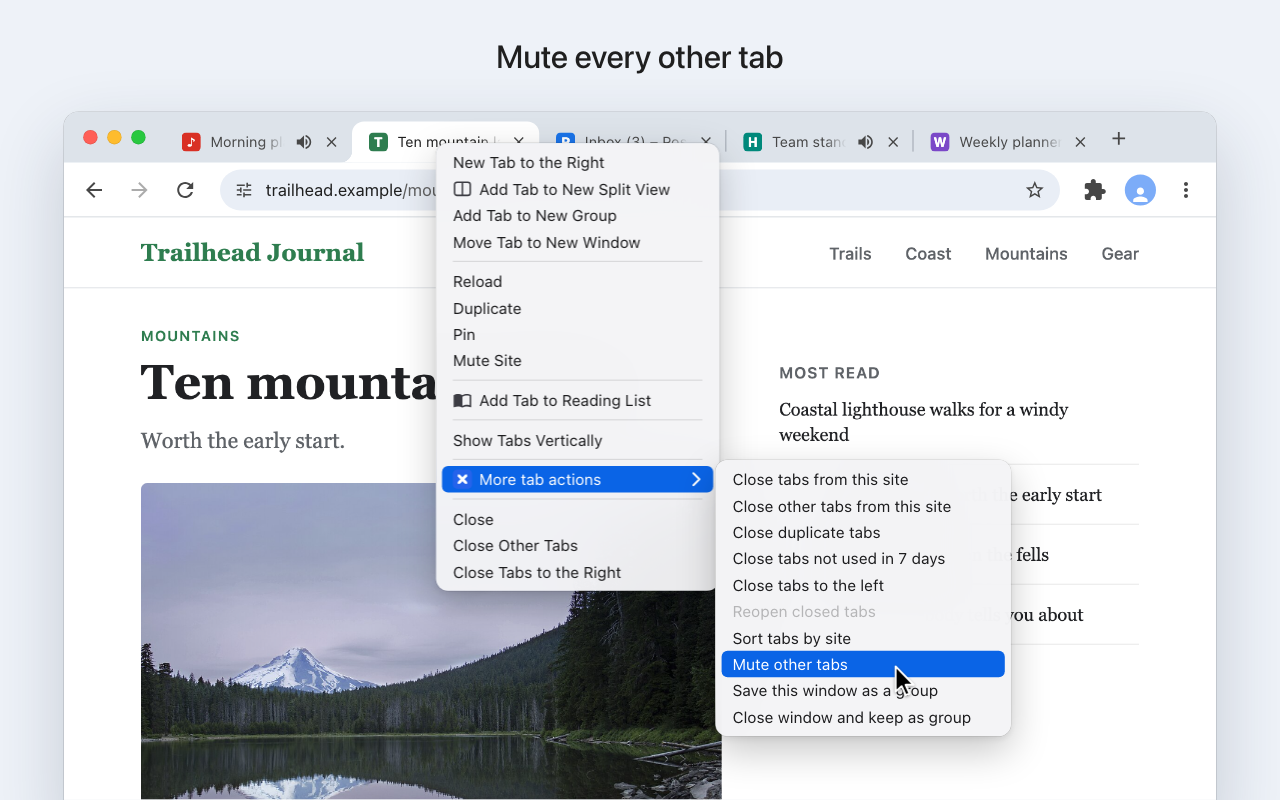
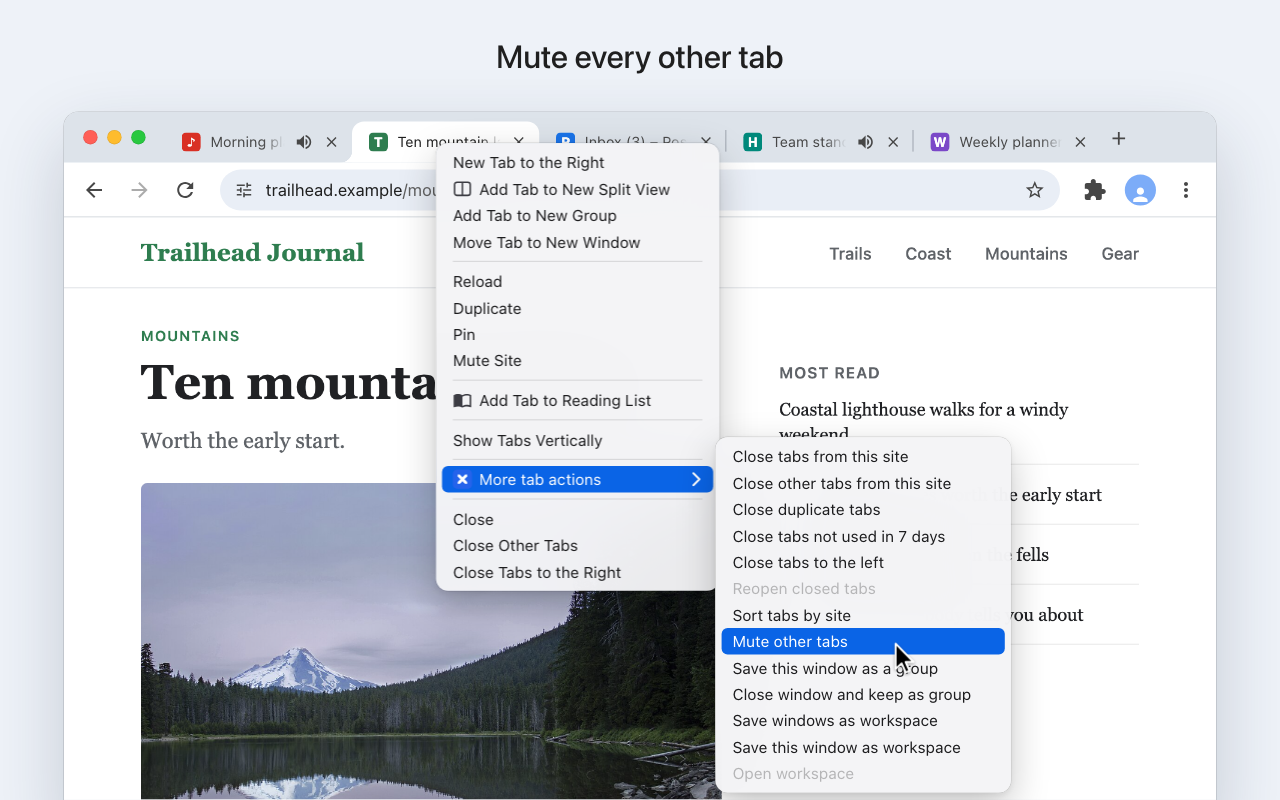
Document workspaces; add a store screenshot of them
README, PRIVACY (kept on this computer, never synced or sent), CHANGELOG,
the store listing (description, justifications, data disclosures, zip
contents) and CLAUDE.md, with what Chromium does: discarding too early
loses the URL, state set too early is dropped, and reopened groups are
saved again (hence "Reopen tab groups").

Screenshot 6 is the Workspaces card with three real workspaces. The
menu shots' submenu now moves up to stay on screen, as macOS does.

Changed region(s): [[0.5312, 0.5312, 0.8125, 1.0]]

diff --git a/CHROMEWEBSTORE.md b/CHROMEWEBSTORE.md
@@ -40,6 +40,12 @@ TAB GROUPS
 • Save this window as a group: puts the window’s tabs into one new tab group, named after its main site (or today’s date). Tabs already in groups stay in them, and pinned tabs stay pinned. Chrome keeps the group in your saved tab groups.
 • Close window and keep as group: the same, then closes the window. Reopen the group whenever you like from Chrome’s saved tab groups. Not offered while the window has pinned tabs, so nothing closes without a group to come back to.
 
+WORKSPACES
+• Save windows as workspace: keeps every window with its tabs in order, pinned tabs, tab groups (names, colours, collapsed) and size, named after its main sites. Or save just the window you’re in.
+• Open workspace: reopens one in new windows. Only each window’s front tab loads; the rest load when you click them, so a big workspace opens fast.
+• Manage them on the settings page: open, rename, replace with your current windows, or delete (with Undo).
+Workspaces stay on your computer. They’re never synced or sent anywhere.
+
 SAFE BY DEFAULT
 Pinned tabs are never closed. Choose whether tabs in groups can be closed, and whether site, duplicate and inactive tabs are closed in this window only or in all windows.
 
@@ -49,14 +55,14 @@ Hide the actions you don’t use. Each action can have a keyboard shortcut: Clos
 Switch to last used tab: press Alt+Shift+Z (Option+Shift+Z on Mac) to jump back to the tab you were just on, even in another window. Press it again to flip back. Chrome has no shortcut for this; Ctrl+Tab only moves along the tab strip.
 
 PRIVATE
-No account and no sign-in. More Tab Actions collects nothing and sends nothing. It looks at your open tabs only on your computer, when you choose an action. Your settings follow you to your other computers through your own Chrome Sync, like Chrome’s own settings, and never come to us.
+No account and no sign-in. More Tab Actions collects nothing and sends nothing. It looks at your open tabs only on your computer, when you choose an action. Workspaces are kept on this computer only. Your settings follow you to your other computers through your own Chrome Sync, like Chrome’s own settings, and never come to us.
 ```
 
 **Category** [REQUIRED]
 Make Chrome Yours › Functionality & UI (alternative: Productivity › Tools).
 
 **Single Purpose** [REQUIRED]
-Adds extra actions for tabs to Chrome’s tab right-click menu (closing tabs by site, duplicate or unused tabs, reopening them, sorting tabs by site, muting other tabs, and putting a window’s tabs into a tab group), with keyboard shortcuts for the same actions, plus a shortcut to switch back to the last used tab.
+Adds extra actions for tabs to Chrome’s tab right-click menu (closing tabs by site, duplicate or unused tabs, reopening them, sorting tabs by site, muting other tabs, putting a window’s tabs into a tab group, and saving windows as a workspace to reopen later), with keyboard shortcuts for the same actions, plus a shortcut to switch back to the last used tab.
 
 **Primary Language** [REQUIRED]
 English.
@@ -69,21 +75,22 @@ English.
 | Asset | Dimensions | Status | Filename |
 |-------|-----------|--------|----------|
 | Store Icon [REQUIRED] | 128×128 PNG | ✅ Ready | `extension/icons/icon-128.png` |
-| Screenshot 1 [REQUIRED] | 1280×800 | ✅ Ready | `store/screenshot-1.png`: “Close every tab from this site”, the tab menu with the submenu open (all ten items, the group ones included) |
+| Screenshot 1 [REQUIRED] | 1280×800 | ✅ Ready | `store/screenshot-1.png`: “Close every tab from this site”, the tab menu with the submenu open (all thirteen items, the group and workspace ones included; “Open workspace” greyed out as nothing is saved yet) |
 | Screenshot 2 | 1280×800 | ✅ Ready | `store/screenshot-2.png`: “Close duplicate tabs, keep one of each”, the tab strip before and after |
 | Screenshot 3 | 1280×800 | ✅ Ready | `store/screenshot-3.png`: “Mute every other tab”, the menu over tabs playing sound |
 | Screenshot 4 | 1280×800 | ✅ Ready | `store/screenshot-4.png`: “Choose what’s in the menu”, the settings page |
 | Screenshot 5 | 1280×800 | ✅ Ready | `store/screenshot-5.png`: “Pick the windows, the days and your shortcuts”, settings in dark mode: Closing tabs and Keyboard shortcuts |
+| Screenshot 6 | 1280×800 | ✅ Ready | `store/screenshot-6.png`: “Save your windows, reopen them later”, the Workspaces card with three real workspaces and a row’s ⋮ menu open |
 | Small Promo Tile [RECOMMENDED] | 440×280 | ✅ Ready | `store/promo-440x280.png`: icon, name, “More from your tab menu” |
 | Marquee Promo Tile [OPTIONAL] | 1400×560 | ⬜ Not made | Only used if the store features the extension |
 
-**How they were made.** `node store/tools/make-screenshots.mjs` regenerates all six. It loads
+**How they were made.** `node store/tools/make-screenshots.mjs` regenerates all seven. It loads
 `extension/` as an unpacked extension in Playwright's Chromium (Playwright 1.64.0 from the Tabby repo).
-- The settings pages (4, 5) are real captures, at 1.2 like the others (shot 2 at 1). The script stops if shot 5’s Keyboard shortcuts card no longer fits.
+- The settings pages (4, 5, 6) are real captures, at 1.2 like the others (shot 2 at 1). The script stops if shot 5’s Keyboard shortcuts card no longer fits. Shot 6’s workspaces are saved by the build’s own `snapshotWindows` and `workspaceName` from windows of the made-up sites (one renamed “Hiking trip”).
 - Screenshot 2's tab lists are real: the script opens the tabs, runs the build's own “Close duplicate tabs” (`extension/shared/actions.js` `runAction`, as `extension/background/background.js` does) and draws the strip from `chrome.tabs` before and after.
 - Chrome's tab right-click menu is native, so it can't be captured headlessly; shots 1 and 3 draw it.
   - Its items and order come from Chromium's `tab_menu_model.cc` at tag 157.0.8103.39. They use the macOS Title Case strings, for a signed-out profile with one window and no tab groups.
-  - The submenu's labels come from the build's `menuEntries()`.
+  - The submenu's labels come from the build's `menuEntries()`. It's moved up to stay on screen, as macOS does with a tall submenu.
   - The submenu has **no separator** because Chrome 157 drops separators in tab-menu submenus (`docs/bug-report/report.md`), so this is what users see today.
   - Re-check these two shots if Chrome changes the tab menu.
 - The web pages behind the menus are made up (no real sites). Photos are CC0, from Wikimedia Commons: “Bierstadt Lake Trail, Rocky Mountain National Park, 2009”, “Lake Mountain Landscape”, “Lighthouse Chania evening sun”.
@@ -97,10 +104,10 @@ English.
 | Permission | Justification |
 |---|---|
 | `contextMenus` | Adds the “More tab actions” submenu to the menu Chrome shows when the user right-clicks a tab. No install warning. |
-| `tabs` | The actions need each open tab’s address to find tabs from the same site and duplicate pages, to sort tabs by site and to name a new tab group after its main site, plus its last-used time for “Close tabs not used in N days”. Tabs are read on the device, only when the user picks an action or a shortcut, and nothing is sent anywhere. Install warning: “Read your browsing history”. |
-| `tabGroups` | “Save this window as a group” and “Close window and keep as group” name the tab group they make (`chrome.tabGroups.update`, title only; Chrome picks the colour). Making the group itself (`chrome.tabs.group`) needs no permission; naming it does. Nothing is read from existing groups or sent anywhere. Install warning: “View and manage your tab groups”. |
-| `storage` | `chrome.storage.sync` keeps the user’s settings (hidden actions, days, windows, grouped tabs), so Chrome Sync carries them to the user’s other computers through their own Google account, like Chrome’s own settings (signed out of Chrome, they stay on the computer). `chrome.storage.local` only holds a settings change Chrome Sync refused for the moment, until it’s retried, and whether Chrome was last seen in light or dark mode (`toolbarDark`, one true/false, this computer only, never synced), for the toolbar icon. `chrome.storage.session` remembers the addresses of the last batch of tabs an action closed, so “Reopen closed tabs” can bring them back. Chrome clears that when it quits. Nothing is sent to the developer. No install warning. |
-| `commands` (manifest key) | Keyboard shortcuts for the same actions, plus “Switch to last used tab”; two have defaults (Close tabs from this site, Alt+Shift+W; Switch to last used tab, Alt+Shift+Z). Users change them at chrome://extensions/shortcuts. The two group actions have commands with no default key. No install warning. |
+| `tabs` | The actions need each open tab’s address to find tabs from the same site and duplicate pages, to sort tabs by site and to name a new tab group after its main site, plus its last-used time for “Close tabs not used in N days”. “Save windows as workspace” reads the open tabs’ addresses, titles and pinned state to keep them on the device; “Open workspace” reopens them and discards the background ones (`chrome.tabs.discard`) so they load only when clicked. Tabs are read on the device, only when the user picks an action or a shortcut, and nothing is sent anywhere. Install warning: “Read your browsing history”. |
+| `tabGroups` | “Save this window as a group” and “Close window and keep as group” name the tab group they make (`chrome.tabGroups.update`, title only; Chrome picks the colour). Saving a workspace reads the open groups’ titles, colours and collapsed state (`chrome.tabGroups.query`), and opening one makes them again with the same title, colour and collapsed state. Making a group itself (`chrome.tabs.group`) needs no permission; reading and naming it do. Nothing is sent anywhere. Install warning: “View and manage your tab groups”. |
+| `storage` | `chrome.storage.sync` keeps the user’s settings (hidden actions, days, windows, grouped tabs), so Chrome Sync carries them to the user’s other computers through their own Google account, like Chrome’s own settings (signed out of Chrome, they stay on the computer). `chrome.storage.local` holds the user’s saved workspaces (`workspaces`: per window, tab addresses, titles, pinned state, tab groups and the window’s size and state; at most 40 of 500 tabs and 200 KB each; this computer only, never synced, deleted with the extension), a settings change Chrome Sync refused for the moment, until it’s retried, and whether Chrome was last seen in light or dark mode (`toolbarDark`, one true/false, this computer only, never synced), for the toolbar icon. `chrome.storage.session` remembers the addresses of the last batch of tabs an action closed, so “Reopen closed tabs” can bring them back. Chrome clears that when it quits. Nothing is sent to the developer. No install warning. |
+| `commands` (manifest key) | Keyboard shortcuts for the same actions, plus “Switch to last used tab”; two have defaults (Close tabs from this site, Alt+Shift+W; Switch to last used tab, Alt+Shift+Z). Users change them at chrome://extensions/shortcuts. The two group actions and the three workspace actions (save windows, save this window, open the last workspace) have commands with no default key. No install warning. |
 | `action` (manifest key, not a permission) | The toolbar button opens the settings page. Its icon is a plain glyph in Chrome’s own toolbar icon colours, light or dark to match Chrome. |
 | `offscreen` | Keeps one small hidden page (`offscreen/offscreen.html`, reason `MATCH_MEDIA`) that reads whether Chrome is in light or dark mode (`matchMedia('(prefers-color-scheme: dark)')`, which the service worker can’t call), so the toolbar icon matches Chrome’s own icons. It only reads that one true/false and tells the extension’s service worker when it changes; it loads nothing and sends nothing anywhere. No install warning. |
 
@@ -121,7 +128,7 @@ Settings sync through the user’s own Chrome Sync (their Google account), like 
 | Authentication information | No | |
 | Personal communications | No | |
 | Location | No | |
-| Web history | No | Open tabs’ addresses are read on the device to carry out an action; the last closed batch is kept in session storage on the device until Chrome quits. Never sent or kept beyond that. |
+| Web history | No | Open tabs’ addresses are read on the device to carry out an action; the last closed batch is kept in session storage on the device until Chrome quits; workspaces the user saves are kept in local storage on the device until the user deletes them. None of it is ever sent off the device, synced, or seen by the developer. |
 | User activity | No | |
 | Website content | No | Pages aren’t read at all. |
 
@@ -138,7 +145,7 @@ repo must be public first). The text is `PRIVACY.md`; the draft below is the sam
 >
 > **What it reads:** when you choose one of its actions or shortcuts, it looks at your open tabs’ addresses, titles and last-used times, in Chrome, so it can close, sort, mute, group or reopen the right tabs. Tab groups it makes are kept by Chrome itself, in your saved tab groups, like groups you make.
 >
-> **What it keeps:** your settings (which actions show, the number of days, the windows, grouped tabs), in Chrome’s own storage. If you’re signed in to Chrome with sync on, Chrome Sync keeps them in your Google account so your other computers get the same settings, as it does for Chrome’s own settings. It also keeps the addresses of the last tabs it closed, on this computer, so “Reopen closed tabs” can bring them back. That list is cleared when Chrome quits.
+> **What it keeps:** your settings (which actions show, the number of days, the windows, grouped tabs), in Chrome’s own storage. If you’re signed in to Chrome with sync on, Chrome Sync keeps them in your Google account so your other computers get the same settings, as it does for Chrome’s own settings. It also keeps the addresses of the last tabs it closed, on this computer, so “Reopen closed tabs” can bring them back; that list is cleared when Chrome quits. Workspaces you save (each window’s tab addresses and titles, pinned tabs, tab groups and size) are kept on this computer only, never synced or sent, until you delete them.
 >
 > **What it sends:** nothing. It makes no network requests, has no analytics or ads, and needs no account. Settings sync is Chrome’s own, through your Google account. Nobody, including ArrayPress, receives any of your data.
 >
@@ -148,7 +155,7 @@ repo must be public first). The text is `PRIVACY.md`; the draft below is the sam
 
 | Version | Date | Notes |
 |---|---|---|
-| 1.0.0 | 2026-11-09 | First build, not yet submitted. Includes “Save this window as a group” and “Close window and keep as group” (adds `tabGroups`, warning “View and manage your tab groups”). Settings always sync through Chrome Sync (the opt-in switch is gone; earlier test installs’ settings move over by themselves). About card at the end of the settings page. |
+| 1.0.0 | 2026-11-09 | First build, not yet submitted. Includes “Save this window as a group” and “Close window and keep as group” (adds `tabGroups`, warning “View and manage your tab groups”). Workspaces (save windows, reopen them; kept in local storage only; no new permission). Settings always sync through Chrome Sync (the opt-in switch is gone; earlier test installs’ settings move over by themselves). About card at the end of the settings page. |
 
 ## Submit checklist
 
@@ -160,7 +167,7 @@ repo must be public first). The text is `PRIVACY.md`; the draft below is the sam
 
 **Build:**
 - [ ] `npm run package` (tests, kit check, zip). The zip is exactly the contents of `extension/`, less the toolbar glyph's SVG sources (`test/package.test.js` checks this):
-      `unzip -l release/more-tab-actions.zip` should list 28 files: `manifest.json` at the root, then `background/` (4), `offscreen/` (2), `options/` (5), `shared/` (6) and `icons/` (10 PNGs); no `store/`, `test/`, `scripts/` or `docs/`.
+      `unzip -l release/more-tab-actions.zip` should list 39 files: `manifest.json` at the root, then `background/` (2), `offscreen/` (2), `options/` (6), `shared/` (6), `vendor/` (12, the kit's browser half) and `icons/` (10 PNGs); no `store/`, `test/`, `scripts/` or `docs/`.
 - [ ] **No placeholder links.** `extension/options/about-links.js` points at the GitHub repo (README, Issues, PRIVACY.md); `npm run package` warns loudly if any link is ever set back to example.com.
 - [ ] Load the `extension/` folder in a clean profile and right-click a tab: the submenu, a shortcut and the settings page all work.
 
@@ -168,7 +175,7 @@ repo must be public first). The text is `PRIVACY.md`; the draft below is the sam
 1. **Items › New item**: upload `release/more-tab-actions.zip`.
 2. **Store listing**: paste the detailed description and pick the category and language (English). Upload:
    - store icon `extension/icons/icon-128.png`;
-   - screenshots `store/screenshot-1.png` … `-5.png`, in that order (1 is the one people see first);
+   - screenshots `store/screenshot-1.png` … `-6.png`, in that order (1 is the one people see first);
    - small promo tile `store/promo-440x280.png`.
 
    Add the homepage and support URLs if you have them.

diff --git a/CLAUDE.md b/CLAUDE.md
@@ -5,18 +5,50 @@ an options page (`options/`). The extension is `extension/` (paths below are ins
 the repo around it holds the tests, scripts, store assets and docs. Settings (`shared/settings.js`: the schema
 for `@arraypress/extension-kit`'s settings store) always live in `chrome.storage.sync`, so they
 follow the user through their own Chrome Sync (plain preferences, not personal data; the developer
-receives nothing); `chrome.storage.local` only holds a write sync refused, until it's retried (by the options
+receives nothing); `chrome.storage.local` holds the saved workspaces (below) and a write sync refused, until it's retried (by the options
 page, and by the worker at start). The options page debounces its writes (sync allows 120 a minute).
 The About card's links are in `options/about-links.js` (`githubAboutLinks`; `npm run package`
 warns loudly if one is ever a placeholder). `npm test` (ESLint; `tsc`, a strict check of the JSDoc types;
 node --test; and `extension-kit duplication`, which fails on copied code not listed in `.jscpd-allowlist.json`), `npm run package` (tests, zip, link reminders),
-`npm run e2e` (Playwright checks in real Chromium, `test/e2e/`: the group actions, the options page and the toolbar glyph; not part of `npm test`).
+`npm run e2e` (Playwright checks in real Chromium, `test/e2e/`: the group actions, workspaces, the options page and the toolbar glyph; not part of `npm test`).
 `test/package.test.js` checks the zip is exactly `extension/` (less the SVG sources) and that every path the extension names resolves inside it.
 
 Toolbar glyph: `action.default_icon` is a light/dark glyph (`icons/toolbar/`, `npm run toolbar-icons`). The kit does the work: `startToolbarTheme(chrome)` in the worker, `watchColorScheme(chrome)` on the options page, `watchSchemeOffscreen` in `offscreen/` (kept open with reason MATCH_MEDIA, polling as offscreen pages get no `change` events), key `toolbarDark` in local, never synced; `test/e2e/toolbar.mjs` runs the kit's `checkToolbarTheme`.
 
 `extension/vendor/extension-kit/` is `@arraypress/extension-kit`'s browser half, copied from `node_modules` by
 `npm install` (`postinstall`) and never committed (gitignored), so it can't drift from `package.json`. Never edit it.
+
+## Workspaces
+`shared/workspaces.js` (snapshot, name, reopen plan, storage, open/save/replace), wired into `shared/actions.js`
+(actions `save-workspace`, `save-window-workspace`, `open-workspace`: a submenu of the latest 10 plus
+"Manage workspaces", or the latest one from its shortcut), and `options/workspaces-section.js` (the card, ⋮ menu
+via `options/action-menu.js`, rename dialog, toasts with Undo). Stored under `workspaces` in `chrome.storage.local`
+only (it's browsing history: never sync), bounded to 40 workspaces × 500 tabs × 200 KB, URLs ≤ 8,192 characters,
+titles ≤ 200. There's no save confirmation beyond what the extension already does for its actions: the menu
+updates (the new workspace heads "Open workspace", as "Reopen 3 closed tabs" appears after closing), like Chrome's
+own "Bookmark all tabs" shows nothing after saving.
+
+What real Chromium does (checked with Playwright's Chromium 156, `test/e2e/workspaces.mjs`):
+- **Opening tabs.** `chrome.tabs.create` refuses `javascript:`, `devtools:`, `chrome-untrusted:` and
+  chrome://kill|crash|hang|quit|restart, and `file:` without file access. `view-source:`, `data:`, `about:`,
+  extension pages and other chrome:// pages open fine, so they're kept (`reopenable()`); `blob:` and
+  `chrome-error:` are skipped as there'd be nothing to show.
+- **Unloaded tabs.** `chrome.tabs.discard` straight after `tabs.create` **loses the URL** (the tab stays blank
+  for good). Waiting until the new tab reports its `url` (its navigation has started; ~20 ms) and then
+  discarding keeps the URL, sends **no request**, and the tab loads when activated in a visible window.
+  Discarding gives the tab a **new id**. So: each window opens with its active tab only, the rest are created,
+  discarded that way, then grouped by their new ids.
+- **Window state.** A state set right after tabs are added to a new window is dropped (reads back "normal" a
+  moment later, headed too), so `setWindowState` sets it again until it holds. Bounds and a non-normal state
+  can't be given together, so windows open normal at their bounds and change state last.
+- **Saved tab groups.** Every group an extension makes is saved by Chrome and pinned to the saved groups bar
+  (the profile's `Sync Data/LevelDB`, read by `test/e2e/saved-groups.mjs`). Closing its window or the browser
+  keeps it; ungrouping or `tabs.remove` of its tabs deletes it. Nothing dedupes by title, and no API can find
+  or reuse a closed saved group, so **each reopen of a workspace adds another saved copy of its groups**.
+  Chosen: the synced setting **"Reopen tab groups"** (on by default, secondary text "Chrome also adds each group
+  it reopens to your saved tab groups"): on keeps the workspace faithful, off reopens the tabs ungrouped and
+  adds nothing. Reusing an open group with the same title was rejected: it would pull tabs into another window's
+  group, and does nothing for the closed copies that pile up.
 
 ## Design
 - The options page copies chrome://settings. Its look comes from `chrome-ui.css` in `@arraypress/extension-kit`
@@ -37,5 +69,6 @@ quotes and apostrophes, "…" only when something asks for more input.
 - GitHub: `arraypress/more-tab-actions` (public). The About links (`extension/options/about-links.js`) point into it, so it must stay public.
 - `npm install` first: devDependencies (Playwright, the kit) and the kit's copy in `extension/vendor/`.
 - **Load the `extension/` folder** (chrome://extensions → Load unpacked). `npm run package` writes the store zip to `release/more-tab-actions.zip`: exactly `extension/`, less `icons/**/*.svg`, `*.d.ts` and `.DS_Store` (`scripts/package.mjs`). `docs/bug-report/` is the Chrome separator-bug write-up.
+- `test/e2e/helpers.mjs` holds what the e2e scripts share (made-up `*.example` sites with request counts, opening a window, running an action as a menu click does).
 - Where a file goes: `background/` runs only in the service worker, `offscreen/` and `options/` are those pages, `shared/` is what more than one of them loads (`actions.js` and what it imports are loaded by the worker and the options page), and `vendor/` is the kit's copy.
 - `store/`: Chrome Web Store screenshots and promo tile (listing text in `CHROMEWEBSTORE.md`). Not packaged. Regenerate with `node store/tools/make-screenshots.mjs`.

diff --git a/README.md b/README.md
@@ -1,8 +1,9 @@
 # More Tab Actions
 
 More actions in Chrome’s tab right-click menu: close every tab from a site, close duplicates or
-tabs you haven’t used in a week, reopen what you just closed, sort and mute tabs, and turn a whole
-window into a saved tab group. Plus a shortcut to flip back to the last tab you used.
+tabs you haven’t used in a week, reopen what you just closed, sort and mute tabs, turn a whole
+window into a saved tab group, and save your windows as a workspace to reopen later. Plus a
+shortcut to flip back to the last tab you used.
 
 ![The tab menu with More tab actions open](store/screenshot-1.png)
 
@@ -22,9 +23,19 @@ Right-click any tab → **More tab actions**:
 | Mute other tabs / Unmute tabs | Silences every tab except the one you clicked |
 | Save this window as a group | Puts the window’s loose tabs into one tab group, named after its main site; Chrome saves and syncs it |
 | Close window and keep as group | The same, then closes the window, to park a project for later |
+| Save windows as workspace | Saves every window (not incognito, popup or app windows) with its tabs, pinned tabs, tab groups and size, named after its main sites |
+| Save this window as workspace | The same, for the window you clicked in |
+| Open workspace › | Reopens a saved workspace in new windows; only each window’s active tab loads, the rest load when you click them. Ends with “Manage workspaces” |
 
 Pinned tabs are never closed. Grouped tabs can be left alone (a setting). Actions can work on the
 clicked tab’s window or on every window.
+
+**Workspaces** are listed on the settings page, newest first, where each one’s ⋮ menu opens,
+renames, replaces (with the windows open now) or deletes it. Up to 40 are kept, each up to 500
+tabs; pages that can’t be reopened (such as `chrome://crash`, `javascript:` or `file://` pages
+without file access) are left out and counted. **Reopen tab groups** (on by default) brings the
+groups back; Chrome then adds each reopened group to its saved tab groups, as it does for every
+group, so turn it off if copies pile up there.
 
 **Keyboard shortcuts:** every action can have one (set them at `chrome://extensions/shortcuts`).
 Two come set:
@@ -32,6 +43,9 @@ Two come set:
 - **Alt+Shift+Z** (⌥⇧Z): switch to the last tab you used, even in another window. Press again to
   flip back. Chrome has no shortcut for this; Ctrl+Tab only moves along the tab strip.
 - **Alt+Shift+W** (⌥⇧W): close tabs from this site.
+
+“Save windows as workspace”, “Save this window as workspace” and “Open last workspace” are there
+too, with no key set (Chrome allows an extension at most four suggested keys).
 
 ## Settings
 
@@ -51,11 +65,11 @@ Nothing is collected or sent anywhere: no network requests, no analytics, no acc
 | `contextMenus` | The “More tab actions” submenu on the tab right-click menu |
 | `tabs` | Reading tab addresses and titles to find a site’s tabs, duplicates and unused tabs |
 | `tabGroups` | Naming the group when you save a window as a group |
-| `storage` | Your settings, and the last closed tabs so they can be reopened |
+| `storage` | Your settings; the last closed tabs so they can be reopened; your workspaces (on this computer only, never synced) |
 | `offscreen` | A tiny hidden page that tells whether Chrome is in light or dark mode, for the toolbar icon |
 
 Chrome shows “Read your browsing history” (for `tabs`) and “View and manage your tab groups”
-(for `tabGroups`) when you install it.
+(for `tabGroups`) when you install it. Workspaces need no other permission.
 
 ## Install from source
 
@@ -90,9 +104,9 @@ more-tab-actions/
 │   │                           actions), recent.js
 │   ├── offscreen/              offscreen.html/.js: tells the worker Chrome's light or dark mode
 │   ├── options/                the settings page, styled like chrome://settings: options.html/
-│   │                           .css/.js, about-links.js
+│   │                           .css/.js, workspaces-section.js, action-menu.js, about-links.js
 │   ├── shared/                 loaded by the worker and the pages: actions.js (what each action
-│   │                           does), settings.js, sites.js, undo.js
+│   │                           does), workspaces.js, settings.js, sites.js, text.js, undo.js
 │   ├── vendor/extension-kit/   @arraypress/extension-kit's browser half, copied in by npm install
 │   │                           (not committed): chrome-ui.css, the settings store, the toolbar glyph
 │   └── icons/                  the extension icons, and toolbar/ (the light and dark glyph)

diff --git a/PRIVACY.md b/PRIVACY.md
@@ -6,21 +6,27 @@ More Tab Actions works entirely in Chrome on your computer. It collects nothing 
 
 When you choose one of its actions or shortcuts, it looks at your open tabs’ addresses, titles and
 last-used times, inside Chrome, so it can close, sort, mute, group, switch to or reopen the right
-tabs. Tab groups it makes are kept by Chrome itself, in your saved tab groups, like the groups you
-make yourself.
+tabs, and when you save a workspace, the open windows and their tab groups. Tab groups it makes
+(including those it reopens from a workspace) are kept by Chrome itself, in your saved tab
+groups, like the groups you make yourself.
 
 ## What it keeps
 
 - **Your settings** (which actions show, the number of days, the windows, grouped tabs), in Chrome’s
   own extension storage. If you’re signed in to Chrome with sync on, Chrome Sync keeps them in your
   Google account so your other computers get the same settings, as it does for Chrome’s own settings.
+- **Your workspaces**, when you save one: each window’s tabs (addresses and titles), which were
+  pinned, its tab groups (names and colours) and its size, so “Open workspace” can bring them back.
+  They are kept on this computer only, in Chrome’s local extension storage: never synced, never
+  sent anywhere. Delete one on the settings page, or remove the extension, and it’s gone.
 - **The last tabs it closed**, on this computer only, so “Reopen closed tabs” can bring them back.
 - **The tabs you used most recently**, on this computer only, so “Switch to last used tab” knows
   where to go back to.
 - **Whether Chrome is in light or dark mode**, on this computer only, to draw its toolbar icon in
   the right colour.
 
-The last two lists are cleared when Chrome quits.
+The closed tabs and recent tabs lists are cleared when Chrome quits; workspaces stay until you
+delete them.
 
 ## What it sends
 

diff --git a/CHANGELOG.md b/CHANGELOG.md
@@ -8,6 +8,14 @@ First version.
   close other tabs from this site, close duplicate tabs, close tabs not used in N days, close tabs to
   the left, reopen closed tabs, sort tabs by site, mute or unmute other tabs, save this window as a
   group, close window and keep as group.
+- **Workspaces**: save every window, or the one you clicked in, as a named workspace (tabs in
+  order, pinned tabs, tab groups with their colours and collapsed state, window size and state),
+  and reopen it later from **Open workspace** in the tab menu or from the settings page, where each
+  can be opened, renamed, replaced with the current windows or deleted (with Undo). Only each
+  window’s active tab loads; the others load when clicked. Kept on this computer only, never
+  synced; up to 40 workspaces of up to 500 tabs. **Reopen tab groups** setting, as Chrome saves
+  every group it reopens. Shortcuts (no keys set): save windows, save this window, open the last
+  workspace.
 - **Switch to last used tab** (Alt+Shift+Z), across windows.
 - Keyboard shortcuts for every action; choose which actions show in the menu.
 - Settings sync through Chrome Sync; settings page styled like chrome://settings, with an About card.
